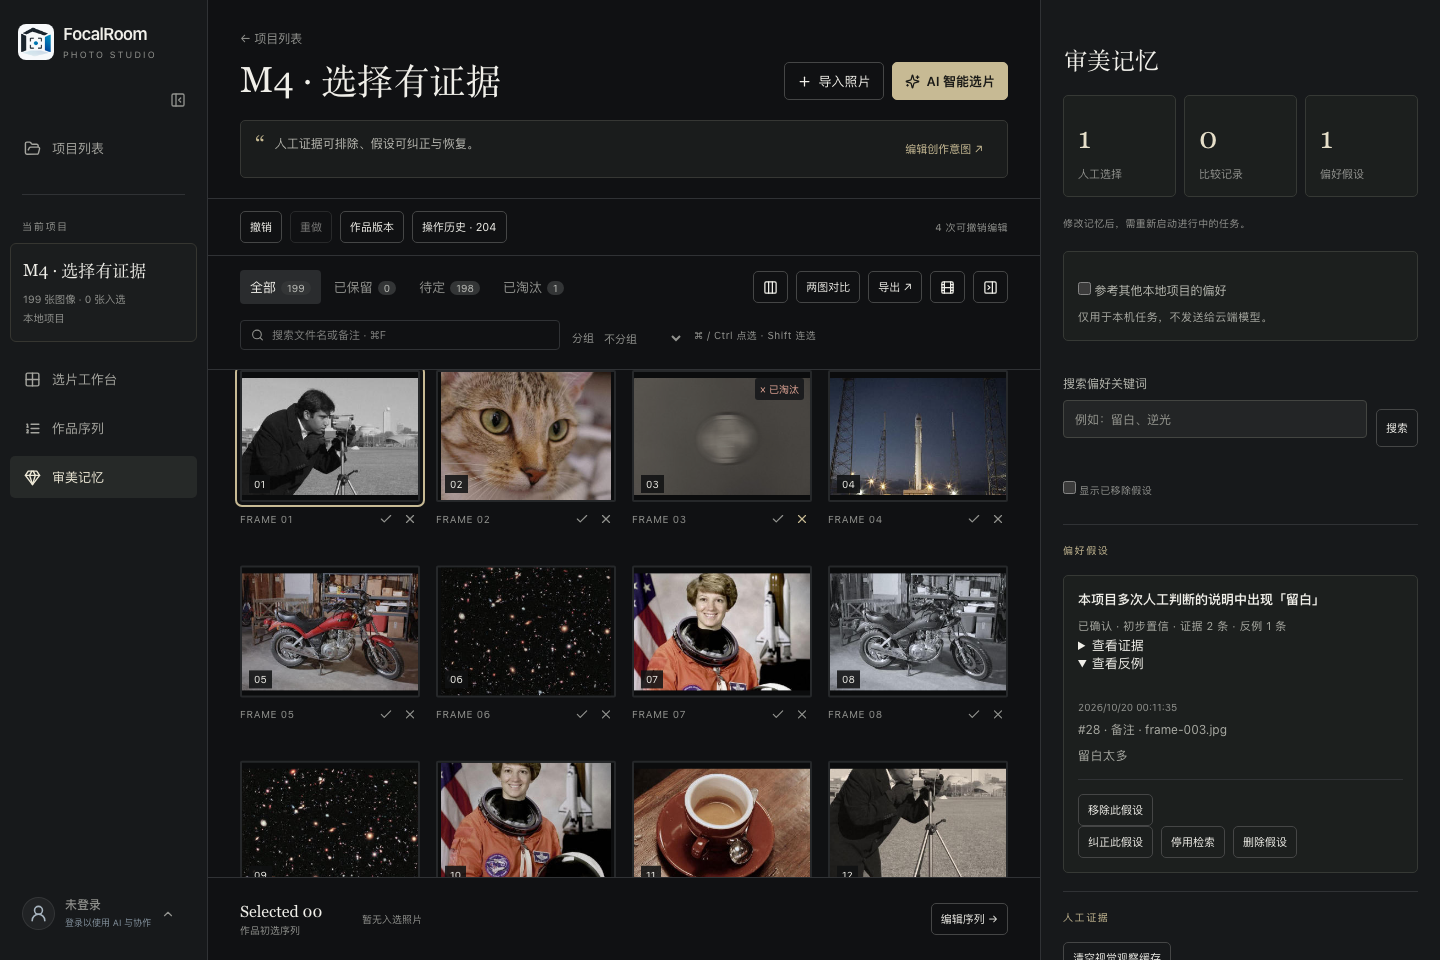
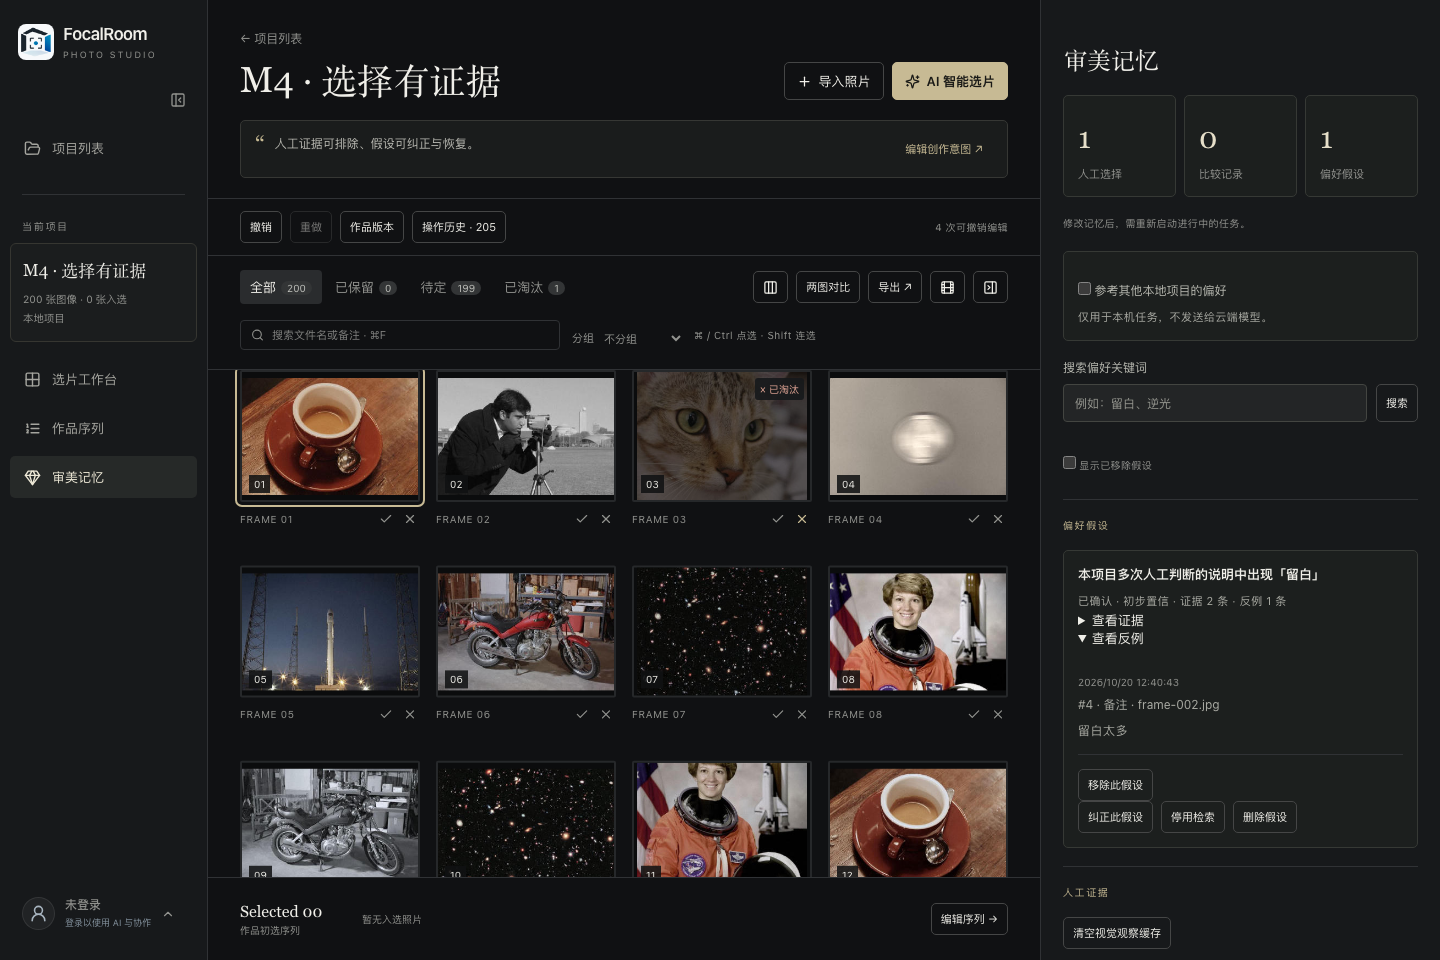
修复：审美记忆搜索行未对齐（用户报告 + CI integration 套件稳定复现）
根因：全局 label margin 与 .button 边距干扰 grid 行内对齐，搜索框
与按钮底边差 9px（memory-controls.spec:75 断言 <2px，远端两轮稳定
失败）。真实 harness 环境实测定位（margin-top 16px + 按钮残留边距）。

修复：.memory-panel .memory-search > * 强制 align-self:end 且
margin-block 归零。实测 input/按钮底边差 0px；完整 spec 通过
（30.4s 全旅程），前端 265 全过。

diff --git a/开发文档/contact-sheet-ai-demo/between-frames/src/styles/app.css b/开发文档/contact-sheet-ai-demo/between-frames/src/styles/app.css
@@ -528,6 +528,8 @@ kbd { border: 1px solid #505149; padding: 4px 7px; border-radius: 3px; color: va
 .memory-panel .info-card h4 { margin: 0 0 10px; }
 .memory-panel .info-card p { line-height: 1.7; }
 .memory-panel .memory-search { display: grid; grid-template-columns: minmax(0,1fr) auto; align-items: end; gap: 9px; margin: 0; }
+.memory-panel .memory-search > * { align-self: end; margin-top: 0; margin-bottom: 0; }
+.memory-panel .memory-search .button, .memory-panel .memory-search button { align-self: end; margin: 0; }
 .memory-panel .memory-search label { display: grid; gap: 8px; min-width: 0; }
 .memory-panel .memory-search input { width: 100%; min-width: 0; margin: 0; height: 38px; }
 .memory-panel .memory-search .button { height: 38px; white-space: nowrap; }
